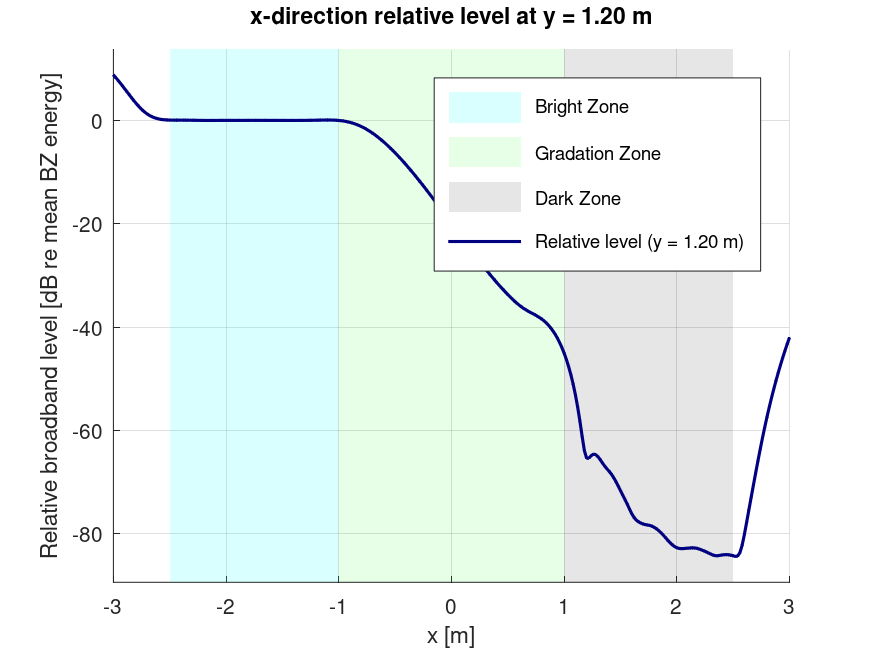
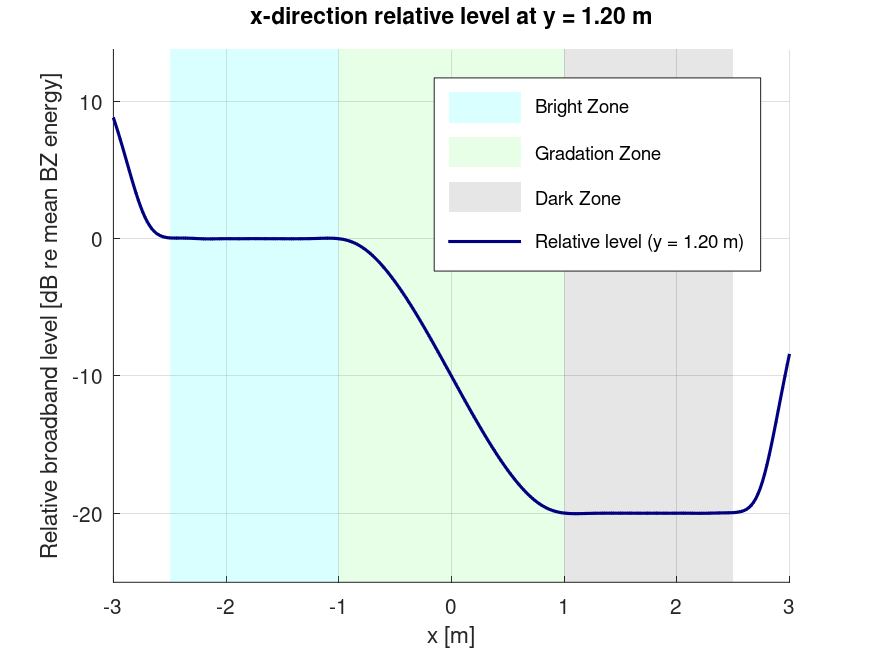
目標音場決定、導入

diff --git a/filter_pm.m b/filter_pm.m
@@ -1,6 +1,17 @@
-function drv_ls = filter_pm(mic_geo, G, f, ang_wave, amp_src, Nsrc, c, num_bz, num_gz, tau)
+function drv_ls = filter_pm(mic_geo, G, f, ang_wave, amp_src, Nsrc, c, num_bz, num_gz, tau, floor_dB, dz_mode)
 
     if nargin < 10 || isempty(tau), tau = 0; end
+    % Defaults preserve compatibility with calls using the original signature.
+    if nargin < 11 || isempty(floor_dB), floor_dB = -20.0; end
+    if nargin < 12 || isempty(dz_mode), dz_mode = "zero"; end
+    if ~isscalar(floor_dB) || ~isfinite(floor_dB) || floor_dB > 0
+        error('filter_pm:invalidFloorDb', ...
+            'floor_dBには0以下の有限なスカラー値を指定してください。');
+    end
+    if ~any(strcmp(dz_mode, {"zero", "floor"}))
+        error('filter_pm:invalidDzMode', ...
+            'dz_modeには"zero"または"floor"を指定してください。');
+    end
 
     % この実装は p_des(i) への線形インデックス代入をしているため、
     % Nsrc > 1 (複数の目標音源/波を同時に与える場合) では正しく動作しない。
@@ -82,11 +93,6 @@ function drv_ls = filter_pm(mic_geo, G, f, ang_wave, amp_src, Nsrc, c, num_bz, n
                     'GZのx方向の幅が実質0です。gz_size(1)がitv_mic(1)に対して小さすぎる可能性があります。pos_sp_mic.m側の設定を見直してください。');
             end
 
-            % GZの目標音圧を滑らかに遷移させる暫定値 [dB]。
-            % DZの目標値は0なので、GZ右端の有限なfloor_dBとは一致しない。
-            % 共有境界を含む座標配置では競合するため、境界の扱いは要検討。
-            floor_dB = -40.0;
-
             for i = gz_idx_start:gz_idx_end
                 x_m = mic_geo(i,1);
                 y_m = mic_geo(i,2);
@@ -112,7 +118,17 @@ function drv_ls = filter_pm(mic_geo, G, f, ang_wave, amp_src, Nsrc, c, num_bz, n
         %--------------------------------------------------
         dz_idx_start = num_bz + num_gz + 1;
         for i = dz_idx_start:n_mic
-            p_des(i) = 0;
+            if strcmp(dz_mode, "floor")
+                % GZ終端と同じ目標振幅・平面波位相をDZに与える。
+                x_m = mic_geo(i,1);
+                y_m = mic_geo(i,2);
+                amp_d = amp_src * 10^(floor_dB / 20);
+                p_des(i) = amp_d * exp(1i * (2*pi*f(kk)/c) * ...
+                    (x_m*cos(ang_wave) + y_m*sin(ang_wave))) * delay_phase;
+            else
+                % zero: DZ目標を0振幅にする。
+                p_des(i) = 0;
+            end
             w_vec(i) = 100.0;
         end
 
